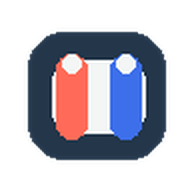
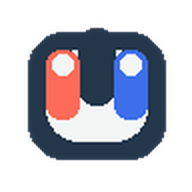
Distinguish cryo and liquid hazard silhouettes

Changed region(s): [[0.2188, 0.25, 0.7812, 0.75], [0.4375, 0.125, 0.5625, 0.1875]]

diff --git a/scripts/generate-brand-art.py b/scripts/generate-brand-art.py
@@ -117,13 +117,20 @@ def object_art(kind):
         d.line((27,43,46,35,64,42),fill=steel[0],width=5)
         for i in range(rank+1):
             d.ellipse((35+i*10,47,40+i*10,52),fill=ink)
-    elif kind in ('flux', 'cold'):
+    elif kind == 'flux':
         d.ellipse((10,10,86,86),outline=roles[kind],width=4)
         for angle in range(6):
             a = angle*pi/3
             d.polygon([(48+r*cos(a+b),48+r*sin(a+b)) for r,b in [(13,-.35),(36,0),(13,.35)]],
                       fill=roles[kind],outline=ink,width=2)
         d.polygon(radial(48,48,11,6),fill=steel[0],outline=ink,width=2)
+    elif kind == 'cold':
+        for x,y in radial(48,48,30,6,pi/6):
+            d.polygon(radial(x,y,12,6,pi/6),fill=roles['cold'],outline=ink,width=3)
+            d.line((x-4,y-5,x+4,y-5),fill=steel[0],width=2)
+        for x,y in radial(48,48,17,6,pi/6):
+            d.line((48,48,x,y),fill=roles['cold'],width=4)
+        d.ellipse((43,43,53,53),fill=steel[0],outline=ink,width=2)
     elif kind.startswith('prop'):
         d.rounded_rectangle((7,20,89,76),8,fill=steel[3],outline=ink,width=4)
         if kind == 'prop-drain':
@@ -137,8 +144,9 @@ def object_art(kind):
         for y in (30,42,54,66):
             d.line((25,y,71,y),fill=ink,width=4)
     else:
-        d.polygon([(13,46),(24,27),(48,19),(74,28),(85,48),(72,67),(42,76),(22,64)],
-                  fill=roles[kind],outline=ink,width=4)
+        outline = ([(13,46),(22,25),(44,28),(62,17),(79,27),(86,51),(69,63),(47,73),(31,68),(16,61)]
+                   if kind == 'acid' else [(10,42),(23,29),(48,24),(76,30),(88,50),(76,63),(47,73),(20,68)])
+        d.polygon(outline, fill=roles[kind],outline=ink,width=4)
         d.ellipse((26,36,69,61),outline=steel[0],width=3)
         if kind == 'acid':
             d.polygon(radial(48,48,12,6),fill=ink)
@@ -164,10 +172,11 @@ pack('workshop', frames)
 def pole_mark():
     im, d = tile()
     d.rounded_rectangle((14,16,82,79),18,fill=ink)
-    d.rounded_rectangle((26,30,72,66),11,fill=steel[0])
-    for x, pole in [(28,'coral'),(55,'cobalt')]:
-        d.rounded_rectangle((x,27,x+15,69),7,fill=roles[pole])
-        d.ellipse((x+3,27,x+12,36),fill=steel[0])
+    d.rounded_rectangle((23,25,73,70),16,fill=steel[0])
+    d.rounded_rectangle((39,14,57,52),8,fill=ink)
+    for x, pole in [(23,'coral'),(57,'cobalt')]:
+        d.rounded_rectangle((x,25,x+16,59),7,fill=roles[pole])
+        d.ellipse((x+3,27,x+13,37),fill=steel[0])
     return im
 
 
